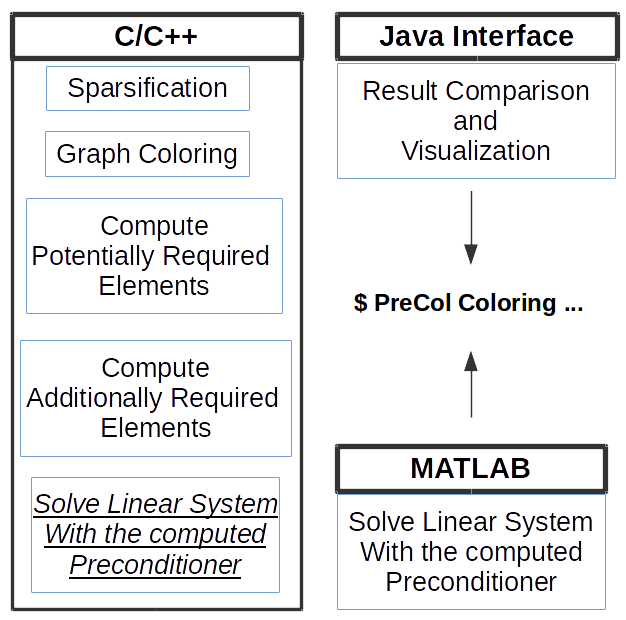
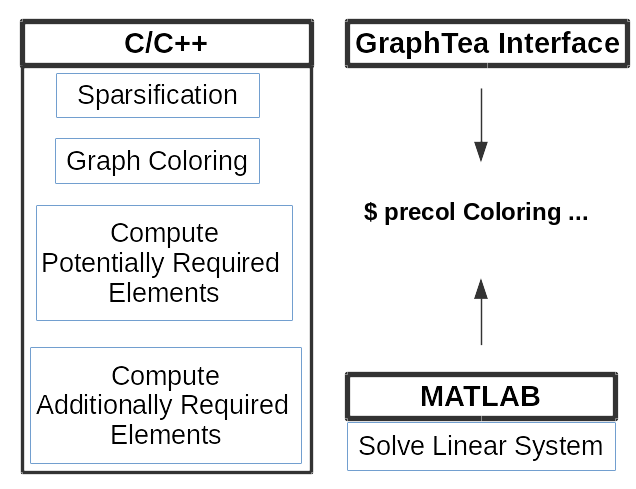
corrections after discussion with prof

Changed region(s): [[0.0, 0.0, 1.0, 1.0]]

diff --git a/diss.tex b/diss.tex
@@ -2040,41 +2040,44 @@ function star_diag($G=(V_r\cup V_c, E)$, $E_i\subseteq E$)
 
 
 %%%%%%%%%%%%%%%%%%%%%%%%%%%%%%%%%%%%%%%%%%%%%%%%%%%%%%%%%%%%%%%%%%%%%%%%%%%%%
-\section{The computational package: PreCol 1.0}
+\section{Implementation Details of PreCol}
 \label{s.extend}
 %%%%%%%%%%%%%%%%%%%%%%%%%%%%%%%%%%%%%%%%%%%%%%%%%%%%%%%%%%%%%%%%%%%%%%%%%%%%%
 We develop a piece of software to implement our proposed heuristics.
-Specially, the software is designed employing concepts from the object-oriented programming
-such that it can be extended later with any new coloring heuristic as well as any preconditioning algorithm.
-The developers can implement new extensions without going into details of core implementation.
-Two main ingredients coloring and orderings can be implemented now only by deriving an interface.
+Specifically, the software is designed employing concepts from object-oriented programming
+such that it can be extended further with new coloring heuristics as well as preconditioning algorithms.
+The developers can implement new extensions without going into the details of the core implementation.
+Two main ingredients, coloring and orderings, can be implemented only by deriving an interface.
 For example, a new coloring and ordering can be added as easy as the following code.
 \begin{lstlisting}
 class New_Ordering : public Ordering {
-  bool order(const Graph &G, vector<unsigned int> &ord, bool restricted) {...}
+  void order(const Graph &G, vector<unsigned int> &ord, bool restricted) {...}
 };
 
 class New_Coloring : public ColAlg {
-  int color() {...}
+   vector<int> color() {...}
 };
 \end{lstlisting}
+Here, the computed ordering is saved in the array \textit{ord} and the coloring is the output
+of the function \textit{color}.
 
-The developer needs to implement this new class in an only-header fashion~\cite{headeronly},
-since the goal is to write an extension with a few code. So, the developer should
-move the new header file to the corresponding directory which is the ordering directory
-for this new ordering and \textit{algs} directory for coloring algorithms.
-Now, building the software would bring this new ordering into the software execution.
+The developer needs to implement these new classes in an only-header fashion~\cite{headeronly}
+since the goal is to write an extension with little effort. So, the developer should
+move the new header file to the corresponding directory which is the \textit{ordering} directory
+for this new ordering and the \textit{algs} directory for coloring algorithms.
+Now, building the software will bring this new ordering into the software execution.
 
 The input matrix is in the format of the matrix market~\cite{matrix-market}. 
 After reading this matrix, we convert it to the different graph models 
 like a column-intersection graph or a bipartite graph. 
-Any result matrix like the sparsified matrix also will be saved in this file format.
+Any resulting matrix like the sparsified matrix will also be saved in this file format.
 
 \textit{PreCol} is developed in \textit{C++} using STL (the standard library) and
 the boost library\cite{boost}.
 Using new concepts of functional programming
-in new C++ release~\cite{Sutherland2015}, we provide different functions which can be used
-by developer to work on graphs. For example, the iteration of vertices
+in new C++ release (C++11 and C++14)~\cite{Sutherland2015},
+we provide different functions which can be used
+by developer to work on graphs. For example, the iteration on vertices
 or edges can be easy as follows,
 \begin{lstlisting}
 for_each_v(G, f);
@@ -2082,25 +2085,24 @@ for_each_v(G, [&](Ver v) {...});
 for_each_e(G, f);
 for_each_e(G, [&](Edge e) {...});
 \end{lstlisting}
-, in which the variable $f$ is a function which gets an input parameter
-of a vertex or an edge, respectively.
+in which the variable $f$ is a function which gets an input parameter of a vertex or an edge.
 Also, the other syntax is the lambda function
-from the new C++ functional programming to implement a function in place.
+from the new C++ functional programming to implement an unnamed function.
 
-Following a unique solution, we implement all part of algorithms
+Following a unique solution, we implement all parts of our heuristics
 with the use of standard library of \textit{C++} which also improves the readability.
-This strategy reduces the amount of the code dramatically and
-make the code more readable.
-Also, the standard algorithms would be automatically parallel in \textit{C++17}~\cite{parallelcpp}.
+This strategy reduces the code length dramatically.
+Also, the algorithms of C++ standard library will be automatically parallel in \textit{C++17}~\cite{parallelcpp}.
 
 As it is presented in \figref{f.structure}, the computations of coloring and ILU preconditioning
-are in one package available in \textit{C++}. 
+are in one package available in \textit{C++}. But, the computation of iterative solver is carried out
+in MATLAB.
 %-----------------------------------------------------------------------------------------------
 \begin{figure}
 \centering
 \includegraphics[width=0.52\textwidth]{new_struct}
 \caption{
-The software PreCol and its two interfaces written in MATLAB and Java are visualized.}
+The software \textit{PreCol} and two user interfaces written in MATLAB and Java.}
 \label{f.structure}
 \end{figure}
 %-----------------------------------------------------------------------------------------------
@@ -2108,29 +2110,32 @@ The software PreCol and its two interfaces written in MATLAB and Java are visual
 To use the software, the user can use a shell command.
 So, the user needs to specify different
 options for coloring algorithms, orderings, the block size, and so on.
-These options can be entered directly in the terminal together with command.
+These options can be entered directly in the terminal.
 An example is as follows,
 \begin{lstlisting}
 precol PartialD2RestrictedColumns LFO_Nat BlockDiagonal 30 2 ex33.mtx
 \end{lstlisting}
 in which the \textit{PartialD2RestrictedColumns} is the coloring algorithm,
-two strings of \textit{LFO} and \textit{Nat} are for the coloring and ILU ordering.
+the string \textit{LFO\_Nat} containing
+two strings \textit{LFO} and \textit{Nat} are for the coloring and ILU orderings.
 The next parameter \textit{BlockDiagonal} specifies the sparsification method
-which is followed by the size of the block $30$. The next number $2$ specifies
-the level parameter of ILU and finally comes the matrix name.
+which is followed by the size of the block. Here, the block size is $30$.
+The next number $2$ specifies the level parameter of ILU.
+The matrix name is the last parameter.
 
-We develop two user interfaces from MATLAB and GraphTea~\cite{2014:07,2014:15,2014:16} for \textit{PreCol}.
-These user interfaces helps in evaluating our proposed heuristics and
-generating different figures. Both interfaces execute the binaries of \textit{PreCol} and
-processes the output files.
-The corresponding commands in both software are as follows,
-\begin{lstlisting}
-function [req,pot,add,F,num_col] = precol(coloring,
-	coloring_order,ilu_order,block_size,ILU_level_parameter,MatrixName,alpha)
+We develop two user interfaces for \textit{PreCol}.
+So that it can be called from within MATLAB and GraphTea~\cite{2014:07,2014:15}.
+These user interfaces help to evaluate our proposed heuristics.
+Both interfaces execute the binaries of \textit{PreCol}
+and process the output files generated by \textit{PreCol}.
+The corresponding commands in both software have interfaces like the following pseudo code,
+\begin{lstlisting}[mathescape]
+function ($R_i$,$R_p$,$R_a$,$\Phi$) = precol(coloring,
+  coloring_ordering,ilu_ordering,block_size,
+  ILU_level_parameter,matrix_name,$\alpha$)
 ...
-end
 \end{lstlisting}
-in which the parameters are passed directly to \textit{PreCol}.
+in which the input parameters are passed directly to \textit{PreCol}.
 
 %%%%%%%%%%%%%%%%%%%%%%%%%%%%%%%%%%%%%%%%%%%%%%%%%%%%%%%%%%%%%%%%%%%%%%%%%%%%%%%%%%%%%
 \chapter{Interactive educational modules}
@@ -2985,11 +2990,11 @@ In this module, we do not have any postprocessing step. Hence, the button is dis
 \label{f.bottom_new_explain}
 \end{figure}
 %------------------------------------------------------------------------------------------
-\section{Implementation Details}
+\section{Implementation Details of EXPLAIN}
 \label{s.impl.explain}
 Lülfesmann~\cite{Lulfesmann2010} first introduced an standalone EXPLAIN needed a client with administrator privileges to install Python libraries as well as the software itself.
 Here, we introduce two new releases of EXPLAIN.
-\subsection{EXPLAIN 1.0}
+\subsection{Version 1.0}
 \label{s.impl.explain1}
 This section is a summary of the implementation details 
 of EXPLAIN 1.0 in our publication~\cite{2013:05}.
@@ -3066,7 +3071,7 @@ The second procedure, \textsc{HistClicked}, takes the selected history $h$. This
 \end{figure}
 
 
-\subsection{EXPLAIN 2.0}
+\subsection{Version 2.0}
 \label{s.impl.explain2}
 In EXPLAIN 2.0, we changed the code such that it becomes more efficient and easier to extend.
 In the previous version, the module was mainly based on the Python libraries:
